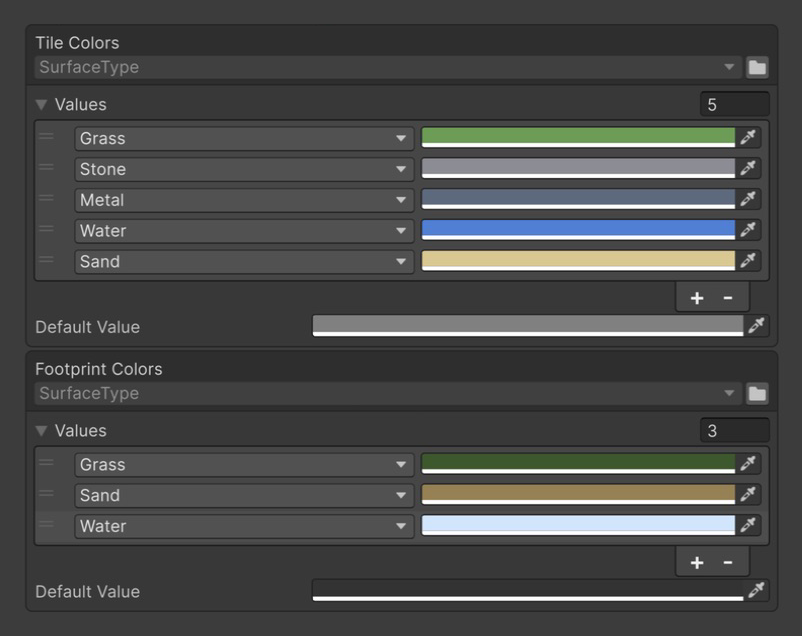
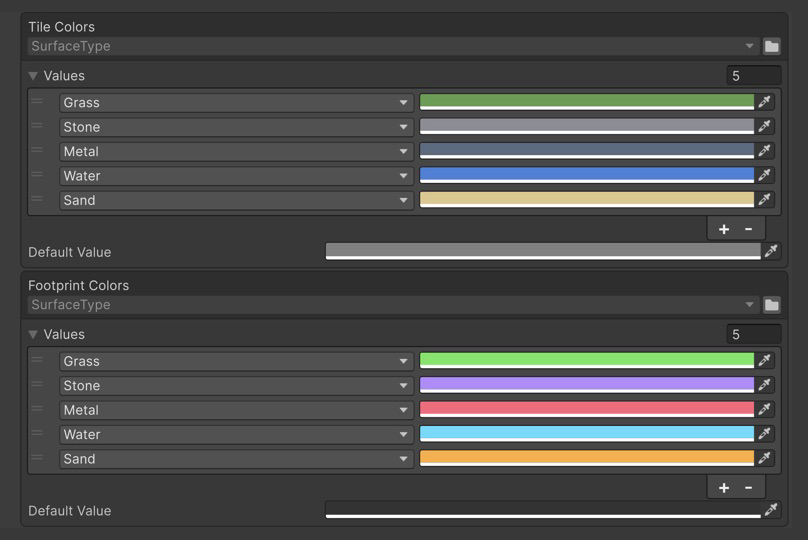
docs(samples): align learning order and refresh sample visuals
Unify the sample order across Unity and the documentation site.
Improve catalog previews, logo proportions, Welcome guidance and contacts.
Give each EnumValues surface a distinct trail color and refresh its media.

diff --git a/Website/src/pages/samples.js b/Website/src/pages/samples.js
@@ -7,30 +7,30 @@ import types from '@site/../Aspid.FastTools/Packages/tech.aspid.fasttools/Sample
 import weapons from '@site/../Aspid.FastTools/Packages/tech.aspid.fasttools/Samples~/SerializeReferences/Documentation/Images/scene.png';
 import surfaces from '@site/../Aspid.FastTools/Packages/tech.aspid.fasttools/Samples~/EnumValues/Documentation/Images/scene.png';
 import flock from '@site/../Aspid.FastTools/Packages/tech.aspid.fasttools/Samples~/ProfilerMarkers/Documentation/Images/scene.png';
-import abilities from '@site/../Aspid.FastTools/Packages/tech.aspid.fasttools/Samples~/EditorTools/Documentation/Images/ability-catalog.png';
+import abilities from '@site/static/img/samples/ability-catalog.png';
 import typesLight from '@site/../Aspid.FastTools/Packages/tech.aspid.fasttools/Samples~/Types/Documentation/Images/scene-light.png';
 import weaponsLight from '@site/../Aspid.FastTools/Packages/tech.aspid.fasttools/Samples~/SerializeReferences/Documentation/Images/scene-light.png';
 import surfacesLight from '@site/../Aspid.FastTools/Packages/tech.aspid.fasttools/Samples~/EnumValues/Documentation/Images/scene-light.png';
 import flockLight from '@site/../Aspid.FastTools/Packages/tech.aspid.fasttools/Samples~/ProfilerMarkers/Documentation/Images/scene-light.png';
-import abilitiesLight from '@site/../Aspid.FastTools/Packages/tech.aspid.fasttools/Samples~/EditorTools/Documentation/Images/ability-catalog-light.png';
+import abilitiesLight from '@site/static/img/samples/ability-catalog-light.png';
 import styles from './samples.module.css';
 
 const samples = [
-  { id: 'serialize-references', feature: 'SerializeReferences', image: weapons, lightImage: weaponsLight,
-    en: ['Weapon lab', 'Switch weapons, combine effects and see every hit.'],
-    ru: ['Оружейная лаборатория', 'Меняйте оружие, сочетайте эффекты и наблюдайте результат каждого попадания.'] },
-  { id: 'types', feature: 'Types', image: types, lightImage: typesLight,
-    en: ['Spawn arena', 'Choose enemy behaviours and arrange the next wave.'],
-    ru: ['Арена появления врагов', 'Выбирайте поведение врагов и схему появления следующей волны.'] },
   { id: 'enum-values', feature: 'EnumValues', image: surfaces, lightImage: surfacesLight,
     en: ['Surface laboratory', 'Explore how surfaces change colors, trails and movement.'],
     ru: ['Лаборатория поверхностей', 'Исследуйте, как поверхности меняют цвет, следы и скорость движения.'] },
-  { id: 'profiler-markers', feature: 'ProfilerMarkers', image: flock, lightImage: flockLight,
-    en: ['Flock observatory', 'Watch the simulation, then inspect its work in the Profiler.'],
-    ru: ['Обсерватория стаи', 'Наблюдайте за симуляцией и изучайте её работу в Profiler.'] },
+  { id: 'types', feature: 'Types', image: types, lightImage: typesLight,
+    en: ['Spawn arena', 'Choose enemy behaviours and arrange the next wave.'],
+    ru: ['Арена появления врагов', 'Выбирайте поведение врагов и схему появления следующей волны.'] },
+  { id: 'serialize-references', feature: 'SerializeReferences', image: weapons, lightImage: weaponsLight,
+    en: ['Weapon lab', 'Switch weapons, combine effects and see every hit.'],
+    ru: ['Оружейная лаборатория', 'Меняйте оружие, сочетайте эффекты и наблюдайте результат каждого попадания.'] },
   { id: 'editor-tools', feature: 'EditorTools', image: abilities, lightImage: abilitiesLight,
     en: ['Ability catalog', 'Tune abilities in a custom editor with asset binding and Undo.'],
     ru: ['Каталог способностей', 'Настраивайте способности в редакторе с привязкой к ассетам и поддержкой Undo.'] },
+  { id: 'profiler-markers', feature: 'ProfilerMarkers', image: flock, lightImage: flockLight,
+    en: ['Flock observatory', 'Watch the simulation, then inspect its work in the Profiler.'],
+    ru: ['Обсерватория стаи', 'Наблюдайте за симуляцией и изучайте её работу в Profiler.'] },
 ];
 
 export default function Samples() {
@@ -48,8 +48,8 @@ export default function Samples() {
           <h1>{title}</h1>
           <p className={styles.intro}>{description}</p>
           <p className={styles.importNote}>{ru
-            ? 'Начните в Unity: Package Manager → Aspid.FastTools → Samples → Import.'
-            : 'Start in Unity: Package Manager → Aspid.FastTools → Samples → Import.'}</p>
+            ? 'Откройте Welcome Window: Tools → Aspid 🐍 → FastTools → Welcome. В разделе Samples нажмите Import у нужного примера.'
+            : 'Open the Welcome Window: Tools → Aspid 🐍 → FastTools → Welcome. In Samples, click Import on the sample you want.'}</p>
         </header>
         <div className={styles.grid}>
           {samples.map((sample, index) => {

diff --git a/Website/docusaurus.config.js b/Website/docusaurus.config.js
@@ -178,11 +178,11 @@ const config = {
             ],
           },
           {
-            title: 'Learn',
+            title: 'Contact',
             items: [
-              { label: 'Tutorials', to: '/samples' },
-              { label: 'API Reference', to: '/api/Aspid.FastTools' },
-              { label: 'VisualElement Extensions', to: '/docs/visual-element-extensions' },
+              { label: 'LinkedIn', href: 'https://www.linkedin.com/in/vladislav-panin-965048314/' },
+              { label: 'vpd.aspid@gmail.com', href: 'mailto:vpd.aspid@gmail.com' },
+              { label: 'Vladislav Panin · GitHub', href: 'https://github.com/VPDPersonal' },
             ],
           },
           {

diff --git a/Website/sidebarsTutorials.js b/Website/sidebarsTutorials.js
@@ -8,10 +8,10 @@
  */
 export default {
   tutorials: [
+    { type: 'doc', id: 'enum-values/readme', label: 'EnumValues' },
     { type: 'doc', id: 'types/readme', label: 'Types' },
     { type: 'doc', id: 'serialize-references/readme', label: 'SerializeReferences' },
-    { type: 'doc', id: 'enum-values/readme', label: 'EnumValues' },
-    { type: 'doc', id: 'profiler-markers/readme', label: 'ProfilerMarkers' },
     { type: 'doc', id: 'editor-tools/readme', label: 'EditorTools' },
+    { type: 'doc', id: 'profiler-markers/readme', label: 'ProfilerMarkers' },
   ],
 };

diff --git a/Website/src/css/custom.css b/Website/src/css/custom.css
@@ -195,6 +195,12 @@ h6 {
   -webkit-backdrop-filter: saturate(180%) blur(12px);
 }
 
+.navbar__logo img {
+  width: auto;
+  height: 100%;
+  object-fit: contain;
+}
+
 .navbar__title {
   font-family: var(--ifm-heading-font-family);
   font-weight: 600;

diff --git a/Aspid.FastTools/Packages/tech.aspid.fasttools/Documentation/ru/01-getting-started.md b/Aspid.FastTools/Packages/tech.aspid.fasttools/Documentation/ru/01-getting-started.md
@@ -41,10 +41,12 @@ https://github.com/VPDPersonal/Aspid.FastTools.git#upm-preview/1.0.0-rc.8
 
 К каждой возможности прилагается пример: небольшая сцена или editor-инструмент, который делает с этой возможностью что-то видимое, и `README.md` с тем, что попробовать и куда смотреть в коде. Импортируйте их из Package Manager (**Aspid.FastTools → Samples**) или откройте вкладку **Welcome** (`Tools → Aspid 🐍 → FastTools → Welcome`).
 
+Это рекомендуемый порядок знакомства; каждый пример можно изучать отдельно.
+
 | Пример | Что показывает |
 |---|---|
+| [EnumValues](../../Samples~/EnumValues/Documentation/README.ru.md) | Ходок по плиткам поверхностей: оба варианта `EnumValues`, значения по умолчанию, правила поиска для `[Flags]` |
 | [Types](../../Samples~/Types/Documentation/README.ru.md) | Спавнер врагов: `SerializableMonoScript<T>`, `SerializableType<T>`, `[TypeSelectorDisplay]`, `[TypeSelector]` со ссылкой на член, `ComponentTypeSelector` |
 | [SerializeReferences](../../Samples~/SerializeReferences/Documentation/README.ru.md) | Турель с полиморфным оружием: пикер `[SerializeReference]` во всех формах поля, сломанные ассеты для инструментов ремонта, IMGUI-инспектор |
-| [EnumValues](../../Samples~/EnumValues/Documentation/README.ru.md) | Ходок по плиткам поверхностей: оба варианта `EnumValues`, значения по умолчанию, правила поиска для `[Flags]` |
-| [ProfilerMarkers](../../Samples~/ProfilerMarkers/Documentation/README.ru.md) | Симуляция стаи: сгенерированное дерево маркеров в Profiler |
 | [EditorTools](../../Samples~/EditorTools/Documentation/README.ru.md) | Окно редактора и инспектор: fluent-расширения `VisualElement`, сеттеры `SerializedProperty`, editor-хелперы, `TypeSelectorWindow` |
+| [ProfilerMarkers](../../Samples~/ProfilerMarkers/Documentation/README.ru.md) | Симуляция стаи: сгенерированное дерево маркеров в Profiler |

diff --git a/Aspid.FastTools/Packages/tech.aspid.fasttools/Samples~/EnumValues/Documentation/README.ru.md b/Aspid.FastTools/Packages/tech.aspid.fasttools/Samples~/EnumValues/Documentation/README.ru.md
@@ -23,7 +23,7 @@
 ## Попробуйте
 
 1. **Типизированный вариант.** Выберите `Data/SurfacePalette.asset`. Обе таблицы — `EnumValues<SurfaceType, Color>`: строка с типом enum только для чтения, потому что тип задан полем. Поменяйте цвет `Grass` — плитки перекрасятся сразу, без Play Mode.
-2. **Значение по умолчанию.** В `Footprint Colors` есть строки только для `Grass`, `Sand` и `Water`. Следы на камне и металле берут `Default Value`. Правый клик по полю → **Populate Missing Enum Members** добавит остальные строки с этим значением.
+2. **Значение по умолчанию.** В `Footprint Colors` у каждой поверхности свой цвет следа: зелёный у травы, фиолетовый у камня, красный у металла, голубой у воды и оранжевый у песка. Чтобы проверить fallback, удалите строку `Stone`: камень начнёт использовать `Default Value`. Правый клик по полю → **Populate Missing Enum Members** восстановит строку с этим значением; через Undo верните исходную палитру.
 3. **Нетипизированный вариант.** Выберите **Walker**. `Speed By Terrain` — это `EnumValues<float>`, чей enum, `TerrainFlags`, выбран в строке заголовка. Каждый ключ — выпадающий список флагов, а `Wet, Slippery` — отдельная строка.
 4. **Правила поиска для `[Flags]`**, видимые, пока ходок пересекает плитки:
    - сначала выигрывает **точный** ключ: плитка `Water (Wet, Slippery)` даёт строку `Wet, Slippery` (`0.5`), хотя строки `Wet` и `Slippery` тоже есть;

diff --git a/Aspid.FastTools/Packages/tech.aspid.fasttools/Documentation/01-getting-started.md b/Aspid.FastTools/Packages/tech.aspid.fasttools/Documentation/01-getting-started.md
@@ -41,10 +41,12 @@ https://github.com/VPDPersonal/Aspid.FastTools.git#upm-preview/1.0.0-rc.8
 
 Each feature ships with a sample: a small scene or editor tool that does something visible with the feature, plus a `README.md` that walks through what to try and where to look in the code. Import them from the Package Manager (**Aspid.FastTools → Samples**) or open the **Welcome** tab (`Tools → Aspid 🐍 → FastTools → Welcome`).
 
+The samples are listed in the recommended learning order; each can also be explored independently.
+
 | Sample | What it shows |
 |---|---|
+| [EnumValues](../Samples~/EnumValues/Documentation/README.md) | A walker over surface tiles: both `EnumValues` variants, default values, `[Flags]` lookup rules |
 | [Types](../Samples~/Types/Documentation/README.md) | An enemy spawner: `SerializableMonoScript<T>`, `SerializableType<T>`, `[TypeSelectorDisplay]`, a member-referenced `[TypeSelector]`, `ComponentTypeSelector` |
 | [SerializeReferences](../Samples~/SerializeReferences/Documentation/README.md) | A turret with polymorphic weapons: the `[SerializeReference]` picker in every field shape, broken assets for the repair tools, an IMGUI inspector |
-| [EnumValues](../Samples~/EnumValues/Documentation/README.md) | A walker over surface tiles: both `EnumValues` variants, default values, `[Flags]` lookup rules |
-| [ProfilerMarkers](../Samples~/ProfilerMarkers/Documentation/README.md) | A flock simulation: the generated marker tree in the Profiler |
 | [EditorTools](../Samples~/EditorTools/Documentation/README.md) | An editor window and inspector: fluent `VisualElement` extensions, `SerializedProperty` setters, editor helpers, `TypeSelectorWindow` |
+| [ProfilerMarkers](../Samples~/ProfilerMarkers/Documentation/README.md) | A flock simulation: the generated marker tree in the Profiler |

diff --git a/Aspid.FastTools/Packages/tech.aspid.fasttools/Samples~/EnumValues/Documentation/README.md b/Aspid.FastTools/Packages/tech.aspid.fasttools/Samples~/EnumValues/Documentation/README.md
@@ -23,7 +23,7 @@ The walker crosses different surfaces and leaves a continuous colored trail.
 ## Try
 
 1. **Typed variant.** Select `Data/SurfacePalette.asset`. Both tables are `EnumValues<SurfaceType, Color>`: the enum row is read-only because the type is fixed by the field. Change the `Grass` color; the tiles recolor immediately, without Play Mode.
-2. **Default value.** `Footprint Colors` has rows only for `Grass`, `Sand` and `Water`. Trail segments on stone and metal use `Default Value`. Right-click the field and choose **Populate Missing Enum Members** to add the rest, seeded with that default.
+2. **Default value.** `Footprint Colors` assigns a distinct trail color to every surface: green for grass, purple for stone, red for metal, cyan for water and orange for sand. To try the fallback, remove the `Stone` row: stone then uses `Default Value`. Right-click the field and choose **Populate Missing Enum Members** to restore the missing row with that default; use Undo to return to the original palette.
 3. **Untyped variant.** Select **Walker**. `Speed By Terrain` is an `EnumValues<float>` whose enum, `TerrainFlags`, was picked in the header row. Each key is a flags dropdown, and `Wet, Slippery` is a row of its own.
 4. **`[Flags]` lookup rules**, visible as the walker crosses the tiles:
    - an **exact** key wins first: the `Water (Wet, Slippery)` tile resolves to the `Wet, Slippery` row (`0.5`), even though `Wet` and `Slippery` rows exist;
